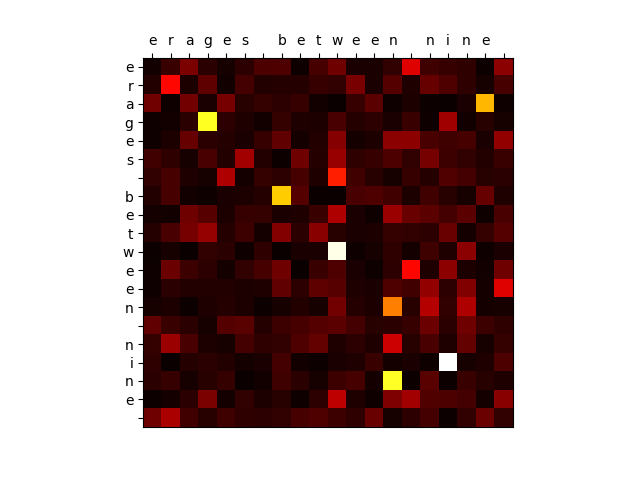
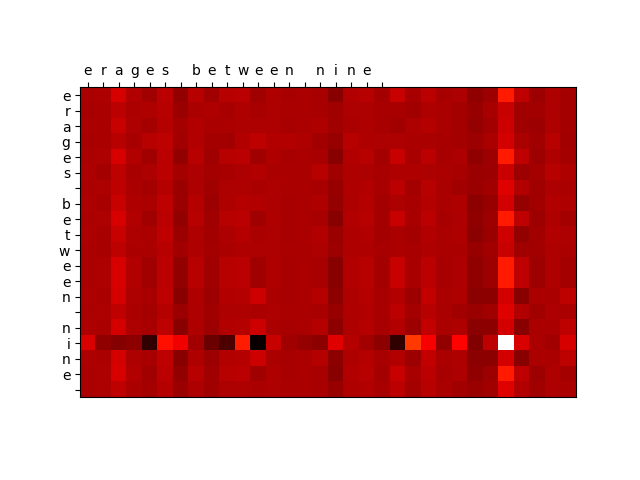
Part 0

diff --git a/transformer.py b/transformer.py
@@ -52,19 +52,18 @@ class Transformer(nn.Module):
         :return: A tuple of the softmax log probabilities (should be a 20x3 matrix) and a list of the attention
         maps you use in your layers (can be variable length, but each should be a 20x20 matrix)
         """
-        # Embedding lookup + positional encoding
+
         x = self.embedding(indices)
-        x = self.positional_encoding(x)
+        # x = self.positional_encoding(x)
 
         attention_maps = []
-        # Pass through each transformer layer
+
         for layer in self.transformer_layers:
             x, attention_map = layer(x)
             attention_maps.append(attention_map)
 
-        # Linear layer for classification
-        logits = self.linear(x)
-        log_probs = self.log_softmax(logits)
+        res = self.linear(x)
+        log_probs = self.log_softmax(res)
 
         return log_probs, attention_maps
 
@@ -80,25 +79,40 @@ class TransformerLayer(nn.Module):
         should both be of this length.
         """
         super().__init__()
-        self.attention = nn.MultiheadAttention(d_model, num_heads=1)  # Simplified single-head attention
-        self.norm1 = nn.LayerNorm(d_model)
+
+        self.query_layer = nn.Linear(d_model, d_internal)
+        self.key_layer = nn.Linear(d_model, d_internal)
+        self.value_layer = nn.Linear(d_model, d_internal)
+        self.output_projection = nn.Linear(d_internal, d_model)
+
         self.feedforward = nn.Sequential(
             nn.Linear(d_model, d_internal),
             nn.ReLU(),
             nn.Linear(d_internal, d_model)
         )
-        self.norm2 = nn.LayerNorm(d_model)
+
+        self.d_model = d_model
 
     def forward(self, input_vecs):
-        # Self-attention with residual connection
-        attn_output, attn_weights = self.attention(input_vecs, input_vecs, input_vecs)
-        x = self.norm1(input_vecs + attn_output)
+        queries = self.query_layer(input_vecs)
+        keys = self.key_layer(input_vecs)
+        values = self.value_layer(input_vecs)
 
-        # Feed-forward with residual connection
-        ff_output = self.feedforward(x)
-        output = self.norm2(x + ff_output)
+        keys_t = keys.transpose(-2, -1)
 
-        return output, attn_weights
+        scores = torch.matmul(queries, keys_t) / np.sqrt(self.d_model)
+        attention = torch.softmax(scores, dim=0)
+        attention = torch.matmul(attention, values)
+
+        attention_output = self.output_projection(attention)
+
+        attention_output = input_vecs + attention_output
+
+        ff_output = self.feedforward(attention_output)
+
+        output = attention_output + ff_output
+
+        return output, attention
 
 
 # Implementation of positional encoding that you can use in your network
@@ -142,30 +156,40 @@ def train_classifier(args, train, dev):
     model = Transformer(
         vocab_size=27,
         num_positions=20,
-        d_model=128,
-        d_internal=64,
+        d_model=64,
+        d_internal=32,
         num_classes=3,
-        num_layers=2
+        num_layers=1
     )
     model.zero_grad()
     model.train()
-    optimizer = optim.Adam(model.parameters(), lr=1e-4)
+    optimizer = optim.Adam(model.parameters(), lr=0.001)
     loss_fcn = nn.NLLLoss()
 
     num_epochs = 10
     for epoch in range(num_epochs):
+
         total_loss = 0.0
         random.shuffle(train)
+
         for example in train:
-            log_probs, _ = model(example.input_tensor.unsqueeze(1))  # Adding batch dimension
-            loss = loss_fcn(log_probs.view(-1, 3), example.output_tensor.view(-1))
+
+            # x = example.input_tensor.unsqueeze(1)
+
+            x = example.input_tensor
+
+            log_probs, maps = model(x)
+            losses = log_probs.view(-1,3)
+            truth = example.output_tensor.view(-1)
+
+            loss = loss_fcn(losses, truth)
 
             optimizer.zero_grad()
             loss.backward()
             optimizer.step()
             total_loss += loss.item()
 
-        print(f"Epoch {epoch + 1}/{num_epochs}, Loss: {total_loss:.4f}")
+        print(f"Epoch {epoch + 1}/{num_epochs} | Loss: {total_loss}")
 
     model.eval()
     return model
